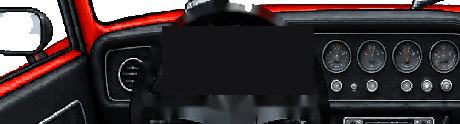
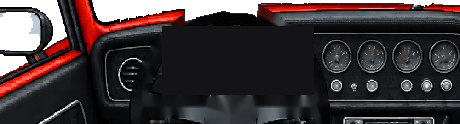
Onça GTE: limpadores estacionados na base do para-brisa (não tapam mais a vista)
Claude-Session: https://claude.ai/code/session_01MLD9VR7gkmY4w6a9beZcp6

diff --git a/tools/ref/onca_gte_cockpit.py b/tools/ref/onca_gte_cockpit.py
@@ -38,6 +38,33 @@ def main():
                     a[114 + j, x + i, :3] = (226, 228, 232) if j < 3 else (160, 164, 170)
         x += 4
     Image.fromarray(a, 'RGBA').save(fn)
+    # limpadores: a arte os tem levantados sobre o vidro, tapando a vista; tira e deixa as
+    # palhetas estacionadas, finas, logo acima da borda vermelha do painel
+    tp, dp = os.path.join(d, 'br-pumagte-top.png'), os.path.join(d, 'br-pumagte-dash.png')
+    t, dd = np.array(Image.open(tp).convert('RGBA')), np.array(Image.open(dp).convert('RGBA'))
+    c = np.vstack([t, dd])
+    hsv = cv2.cvtColor(np.ascontiguousarray(c[..., :3]), cv2.COLOR_RGB2HSV_FULL).astype(float)
+    hue = hsv[..., 0] * 360 / 256
+    red = ((hue >= 340) | (hue <= 14)) & (hsv[..., 1] > 100) & (c[..., 3] > 0)
+    found = {}
+    for x in range(120, c.shape[1]):
+        rows = np.nonzero(red[70:100, x])[0]
+        if len(rows):
+            found[x] = 70 + rows[0]
+    # onde a borda vermelha não aparece (atrás da reconstrução do aro), interpola das vizinhas
+    xs = np.array(sorted(found))
+    edge = {}
+    for x in range(120, c.shape[1]):
+        r0 = found.get(x, int(round(np.interp(x, xs, [found[k] for k in xs]))))
+        edge[x] = r0
+        col = c[45:r0, x]
+        col[..., 3] = 0  # acima da borda: só vidro (o céu aparece)
+    for x0, x1 in ((196, 292), (304, 404)):
+        for x in range(x0, x1):
+            if x in edge:
+                c[edge[x] - 1, x] = (34, 34, 38, 255)
+    Image.fromarray(c[:t.shape[0]], 'RGBA').save(tp)
+    Image.fromarray(c[t.shape[0]:], 'RGBA').save(dp)
     # partes na cor do carro: vermelho saturado
     for name in ('dash', 'top'):
         p = os.path.join(d, f'br-pumagte-{name}.png')
